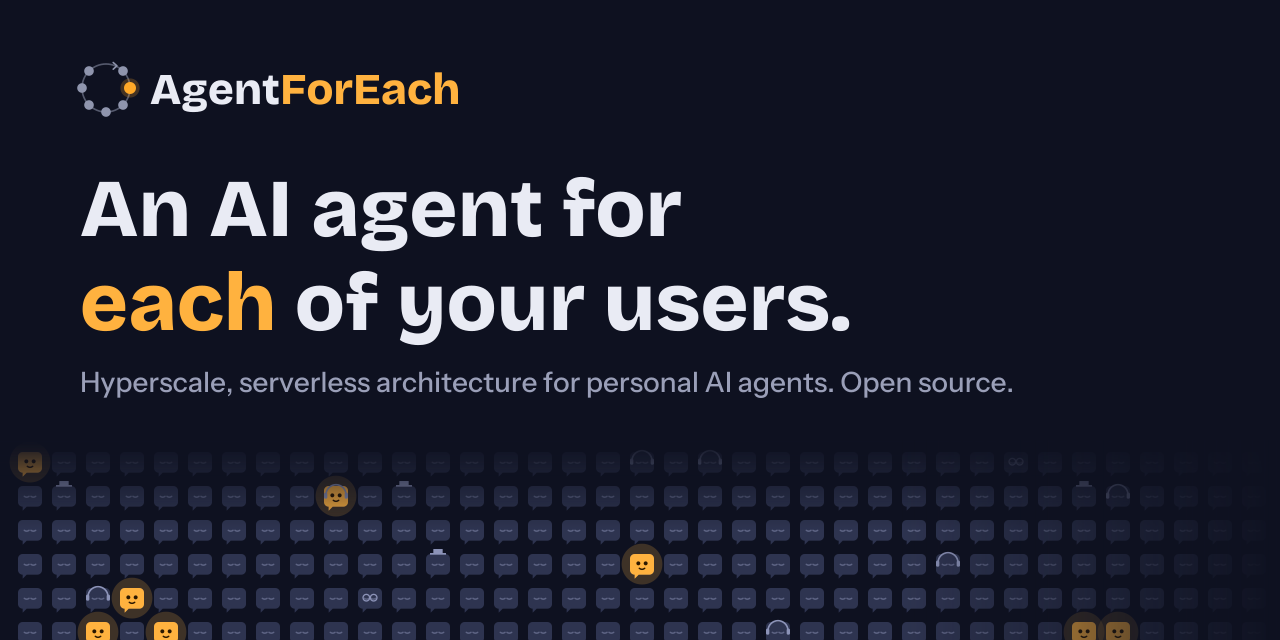
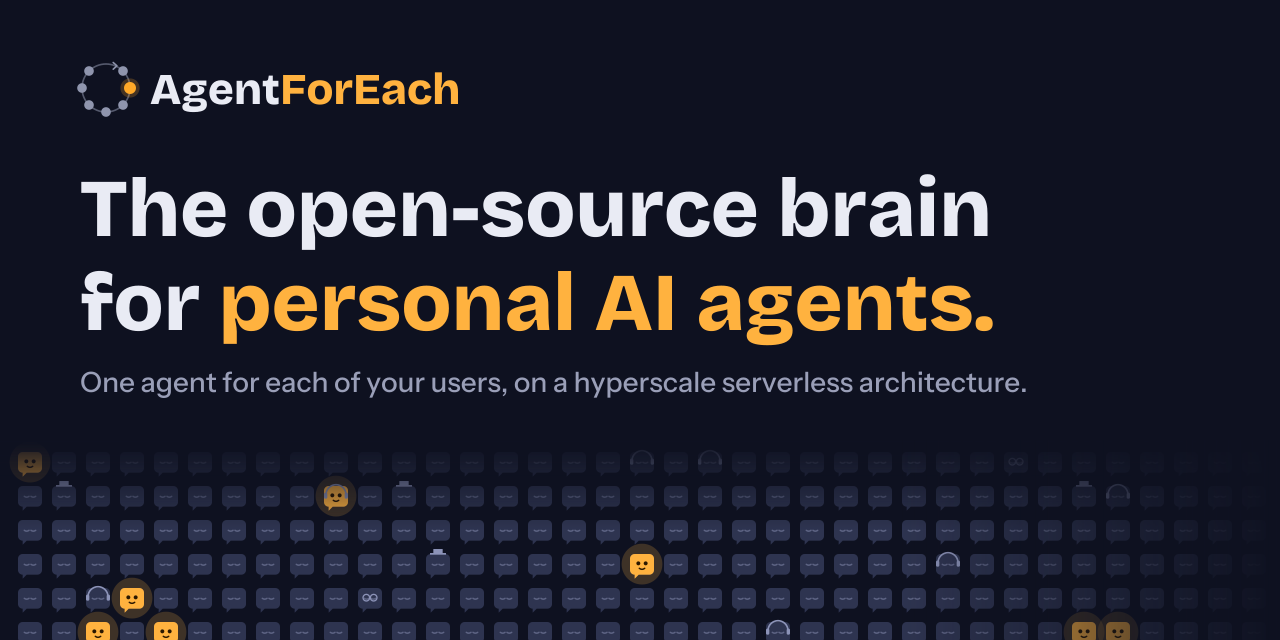
README: say what it is, who it's for and how it differs
Leads with "the open-source brain for personal AI agents": the backend
for companies building a product like Muse, Grok or o, with single-user
mode as a secondary option. Adds What it is (you build / it runs), Who
it's for and How it's different; use cases are written for companies.
The social preview carries the new headline.

Changed region(s): [[0.0625, 0.2812, 0.8125, 0.625]]

diff --git a/README.md b/README.md
@@ -5,12 +5,12 @@
   </picture>
 </p>
 
-<h1 align="center">An AI agent for each of your users.</h1>
+<h1 align="center">The open-source brain for personal AI agents.</h1>
 
 <p align="center">
-  <b>Hyperscale, serverless architecture for personal AI agents.</b><br>
-  Every user gets their own agent with memory, reminders, tools, a private sandbox and a chat on web, Telegram or WhatsApp.<br>
-  They all run on one shared serverless deployment, so an idle user costs only storage.
+  <b>Muse, Grok and o give every user an AI agent of their own. AgentForEach is the backend to build a product like them.</b><br>
+  It runs one agent for each of your users, with memory, scheduled work, tools, a private sandbox and a chat on web, Telegram or WhatsApp,<br>
+  on a hyperscale serverless architecture where an idle user costs only storage.
 </p>
 
 <p align="center"><code>users.forEach(user =&gt; agent(user))</code></p>
@@ -40,38 +40,70 @@
 
 > **Status: preview.** The architecture is load-tested, the security model reviewed and the code has 1,100+ tests, but it hasn't run in many production deployments yet. Read [SECURITY.md](SECURITY.md) before exposing it to users.
 
-## What you can build
+## What it is
+
+A personal AI agent product is much more than a model and a chat window. Behind an app like Muse, every user has an agent that remembers them, keeps working on a schedule while they're away, uses tools, runs code, asks before it acts and answers on whichever channel they use. The company behind it runs all of those agents at once, for every user, without a server for each.
+
+AgentForEach is that backend, open source. You build the product; it runs the agents.
+
+| You build | AgentForEach runs |
+|---|---|
+| Your app, brand and onboarding | One agent per user: sessions, history, long-term memory, prompt documents |
+| Your agent's personality, skills and knowledge | The tool loop, model failover and streaming replies to every device |
+| Sign-in, with your identity provider | Reminders, recurring jobs and heartbeats on a sharded scheduler |
+| Your pricing and your users | Approvals, per-user sandboxes, Telegram and WhatsApp, tenant isolation, and the whole Azure stack as code |
+
+## Who it's for
+
+- **Startups building a personal-agent product.** Your own Muse for a market, a language or a niche, without building the platform first.
+- **Companies with an audience.** Banks, telcos, retailers and schools giving every customer an agent in their app or on WhatsApp.
+- **Teams building vertical agents.** A tutor for every student or a coach for every client: your domain, one agent per user.
+
+It also runs in **single-user mode** for one person's own agent ([setup](docs/Identity.md#deployment-scenarios)). That works, but it isn't what the architecture is for: one agent doesn't need hyperscale.
+
+## How it's different
+
+| | Self-hosted personal agents | Agent frameworks | AgentForEach |
+|---|---|---|---|
+| Built for | One person running their own agent | Developers writing agent logic | Companies running an agent for every user |
+| Users per deployment | One owner | Whatever you build | Any number, on one deployment |
+| An idle user costs | A machine that stays on | Whatever you build | Storage only |
+| Per-user memory, schedules and sandboxes | For the one owner | Build it yourself | Built in and isolated per user |
+| Channels and identity linking | The owner's own accounts | Build it yourself | Web and apps, Telegram and WhatsApp, with pairing |
+| Infrastructure | A machine or container | Bring your own | One Pulumi program, fully serverless |
+
+## What companies build with it
 
 <table>
   <tr>
     <td width="50%" valign="top">
       <img src="docs/assets/icons/use-app.svg" width="56" alt=""><br>
-      <b>A personal assistant inside your app</b><br>
-      A Muse-style agent under your own brand that remembers each user, runs errands on a schedule and follows up on its own.
+      <b>Your own Muse</b><br>
+      A consumer personal-agent app under your brand. Every user's agent remembers them, works while they're away and follows up on its own.
     </td>
     <td width="50%" valign="top">
       <img src="docs/assets/icons/use-concierge.svg" width="56" alt=""><br>
-      <b>A concierge for every customer</b><br>
-      One agent per customer on WhatsApp or Telegram, with that customer's history and an approval step before anything that matters.
+      <b>An agent for every customer</b><br>
+      Give each customer of your bank, telco or store their own agent in your app or on WhatsApp, with their history and an approval step before anything that matters.
     </td>
   </tr>
   <tr>
     <td width="50%" valign="top">
       <img src="docs/assets/icons/use-tutor.svg" width="56" alt=""><br>
       <b>A tutor for every student</b><br>
-      Memory of what each student knows, reminders to practise, a sandbox to run their code, and your course material as a knowledge base.
+      A vertical agent product: memory of what each student knows, reminders to practise, a sandbox to run their code and your course material as a knowledge base.
     </td>
     <td width="50%" valign="top">
       <img src="docs/assets/icons/use-team.svg" width="56" alt=""><br>
       <b>An assistant for every employee</b><br>
-      Each person's own agent, with skills that call your internal APIs. Credentials are injected by the platform and never reach the model.
+      Roll out an agent to everyone in your company, with skills that call your internal APIs. Credentials are injected by the platform and never reach the model.
     </td>
   </tr>
 </table>
 
-## Why this architecture
+## Why serverless
 
-Personal agents are usually built as one machine or container per user. That is simple at a hundred users and a fleet to run at a million, and you pay for every machine while its user sleeps. AgentForEach runs every user's agent on **one shared serverless platform** instead:
+The usual way to give each user an agent is one machine or container per user. That is simple at a hundred users and a fleet to run at a million, and you pay for every machine while its user sleeps. AgentForEach runs every user's agent on **one shared serverless platform** instead:
 
 | | One machine (or container) per user | AgentForEach |
 |---|---|---|
@@ -190,3 +222,5 @@ The full index is in [docs/README.md](docs/README.md).
 ## License
 
 [Apache-2.0](LICENSE). Third-party notices are in [NOTICE](NOTICE).
+
+Muse, Grok and o are products of Meta, xAI and OpenAI. AgentForEach is an independent project and is not affiliated with them.
